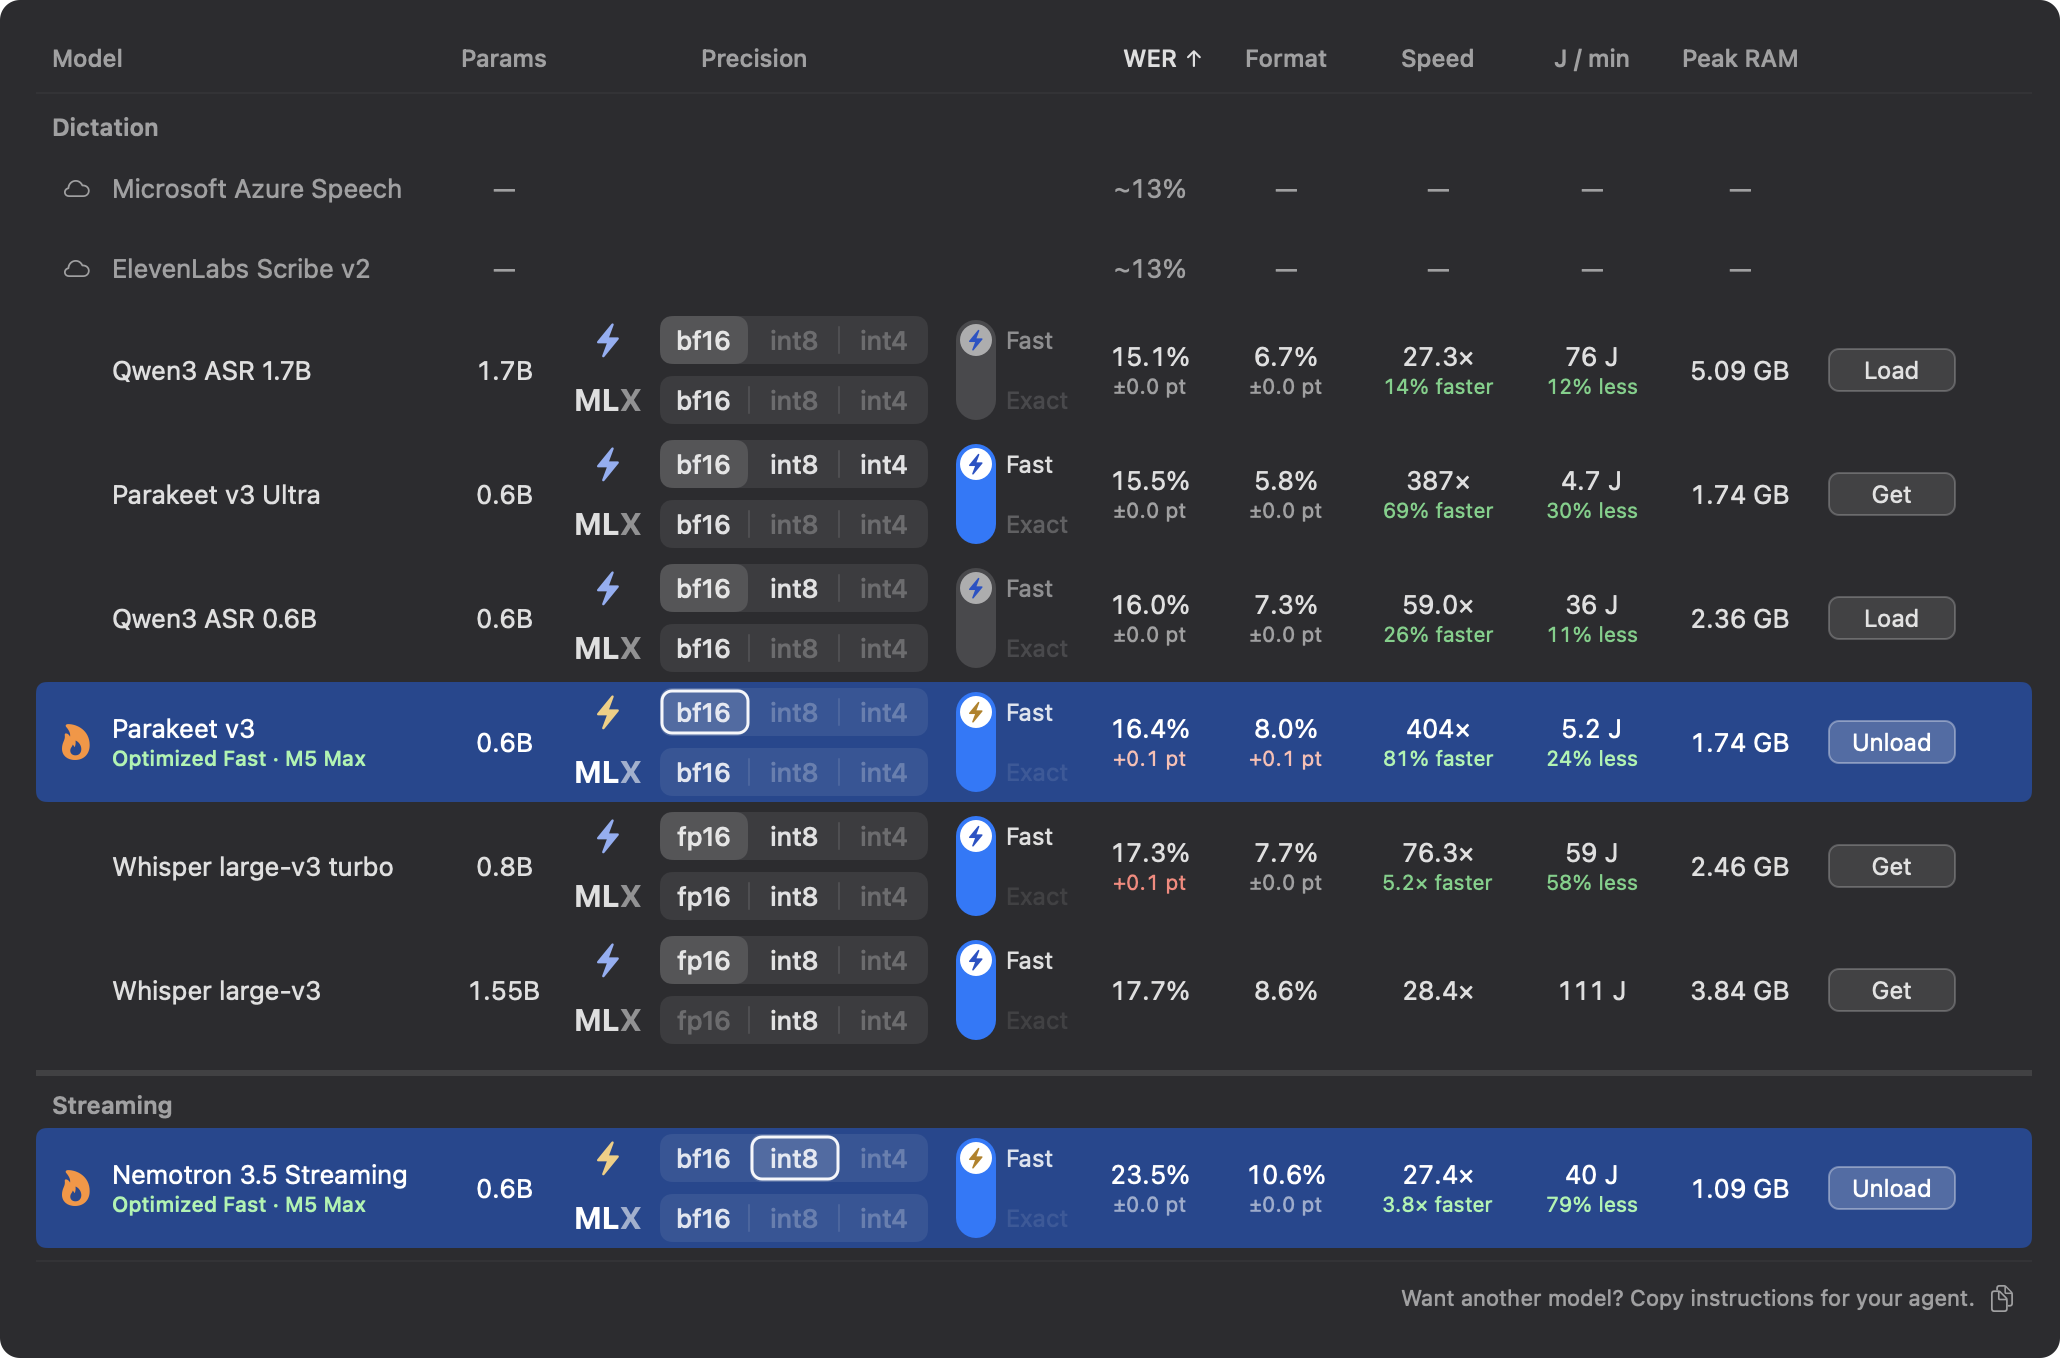
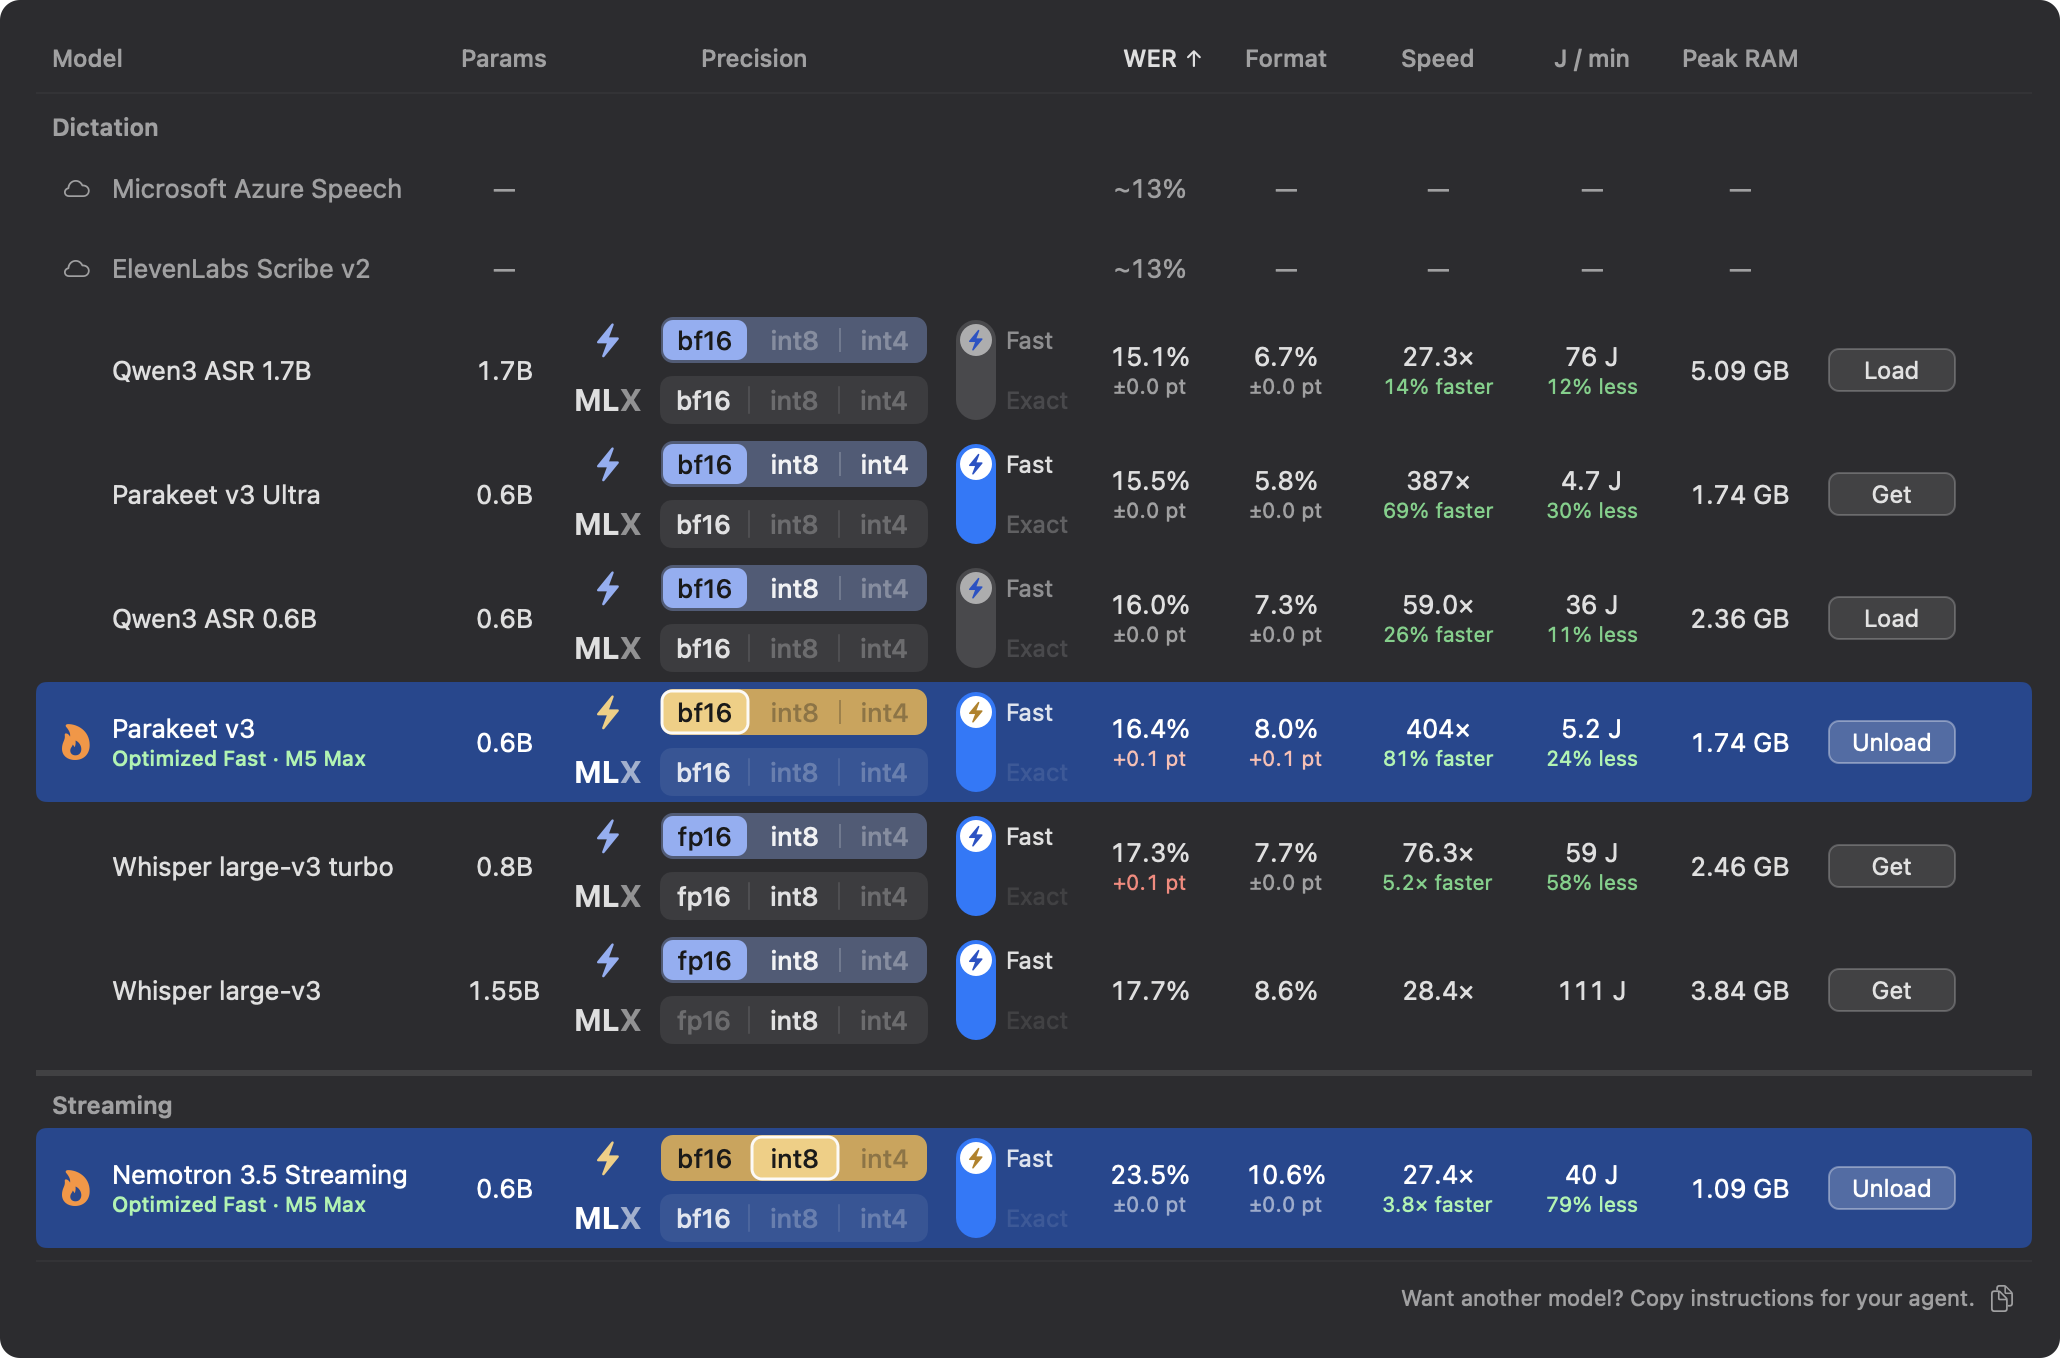
Models table: the Optimized row's buttons are tinted as a whole, light blue on unloaded rows and warm yellow on the loaded row

diff --git a/Sources/Vella/ModelsTable/TierControl.swift b/Sources/Vella/ModelsTable/TierControl.swift
@@ -115,7 +115,7 @@ struct TierControl: View {
                 .accessibilityElement().accessibilityLabel(row.title)
             TierSegments(
                 tiers: Self.columns, labels: labels, selected: selected?.row == row ? selected?.tier : nil, enabled: enabled, hot: hot,
-                unavailable: Set(off.keys),
+                unavailable: Set(off.keys), tint: row == .optimized ? Self.boltColor(hot: hot) : nil,
                 help: { off[$0] ?? Self.tooltip(help(Cell(row, $0)), enabled: enabled) },
                 onSelect: { tier in if off[tier] == nil { onSelect(Cell(row, tier)) } }
             )
@@ -167,6 +167,9 @@ private struct TierSegments: NSViewRepresentable {
     let enabled: Bool
     let hot: Bool
     var unavailable: Set<String> = []
+    /// The Optimized row takes the bolt's tint (Toby, 30 Sep): a wash behind its cells and its labels in that colour,
+    /// light blue on an unloaded row, the warm yellow on the loaded one. The Standard row stays neutral (nil).
+    var tint: NSColor? = nil
     let help: (String) -> String
     let onSelect: (String) -> Void
 
@@ -193,7 +196,46 @@ private struct TierSegments: NSViewRepresentable {
         }
         /// A loaded row rings its selected cell in white: on the accent-blue row a fill alone does not stand out.
         var ringsSelection = false { didSet { if ringsSelection != oldValue { needsDisplay = true } } }
+        /// The Optimized row is drawn tinted as a whole (Toby, 30 Sep): the cells washed in the bolt's colour, the selected
+        /// cell solid in it with a dark label, the others white, greyed cells dimmed. Stock drawing for the Standard row.
+        var tint: NSColor? { didSet { if tint != oldValue { needsDisplay = true } } }
+        static let hotWash = NSColor(srgbRed: 208 / 255, green: 162 / 255, blue: 81 / 255, alpha: 1)
         override func draw(_ dirtyRect: NSRect) {
+            guard let tint else { return drawStock(dirtyRect) }
+            NSGraphicsContext.current?.cgContext.setAlpha(isEnabled ? 1 : 0.5)
+            let pitch = TierControl.cellWidth - 1
+            // On the loaded row the yellow must win over the blue behind it, so the wash is strong and labels are dark.
+            let hotRow = ringsSelection
+            // Yellow over the complementary blue greys out when blended, so the loaded row's wash is an opaque, deeper
+            // shade of the same yellow (41° 62 % 58 %).
+            (hotRow ? Self.hotWash : tint.withAlphaComponent(0.36)).setFill()
+            NSBezierPath(roundedRect: bounds.insetBy(dx: 0.5, dy: 0.5), xRadius: 6, yRadius: 6).fill()
+            for i in 0..<segmentCount {
+                let cell = NSRect(x: CGFloat(i) * pitch, y: 0, width: pitch, height: bounds.height)
+                let selected = i == selectedSegment
+                if selected {
+                    tint.setFill()
+                    NSBezierPath(roundedRect: cell.insetBy(dx: 1.5, dy: 2), xRadius: 5, yRadius: 5).fill()
+                } else if i > 0, i - 1 != selectedSegment {
+                    (hotRow ? NSColor(white: 0.1, alpha: 0.25) : NSColor.white.withAlphaComponent(0.18)).setFill()
+                    NSRect(x: cell.minX - 0.5, y: cell.minY + 6, width: 1, height: cell.height - 12).fill()
+                }
+                let text = label(forSegment: i) ?? ""
+                let color: NSColor = !isEnabled(forSegment: i) ? (hotRow ? NSColor(white: 0.1, alpha: 0.35) : NSColor.white.withAlphaComponent(0.3))
+                    : selected || hotRow ? NSColor(white: 0.1, alpha: 1) : NSColor.white.withAlphaComponent(0.92)
+                let attributes: [NSAttributedString.Key: Any] = [.font: font ?? TierControl.font, .foregroundColor: color]
+                let size = (text as NSString).size(withAttributes: attributes)
+                (text as NSString).draw(at: NSPoint(x: cell.midX - size.width / 2, y: cell.midY - size.height / 2), withAttributes: attributes)
+            }
+            if ringsSelection, selectedSegment >= 0 {
+                let cell = NSRect(x: CGFloat(selectedSegment) * pitch, y: 0, width: pitch, height: bounds.height).insetBy(dx: 1, dy: 1.5)
+                let ring = NSBezierPath(roundedRect: cell, xRadius: 5, yRadius: 5)
+                ring.lineWidth = 1.5
+                NSColor.white.withAlphaComponent(0.95).setStroke()
+                ring.stroke()
+            }
+        }
+        private func drawStock(_ dirtyRect: NSRect) {
             super.draw(dirtyRect)
             guard ringsSelection, selectedSegment >= 0, selectedSegment < segmentCount else { return }
             let x = CGFloat(selectedSegment) * (TierControl.cellWidth - 1)
@@ -205,6 +247,7 @@ private struct TierSegments: NSViewRepresentable {
         }
     }
 
+    /// Draws an enabled segment's label in the row's tint; everything else (bezels, selection, greyed cells) is stock.
     func makeNSView(context: Context) -> NSSegmentedControl {
         let control = Control()
         control.controlSize = .regular
@@ -239,6 +282,7 @@ private struct TierSegments: NSViewRepresentable {
         // white label stands out from the light unselected cells there.
         control.selectedSegmentBezelColor = hot ? TierControl.hotSelection : nil
         (control as? Control)?.ringsSelection = hot
+        (control as? Control)?.tint = tint
         control.needsDisplay = true
     }
 }
